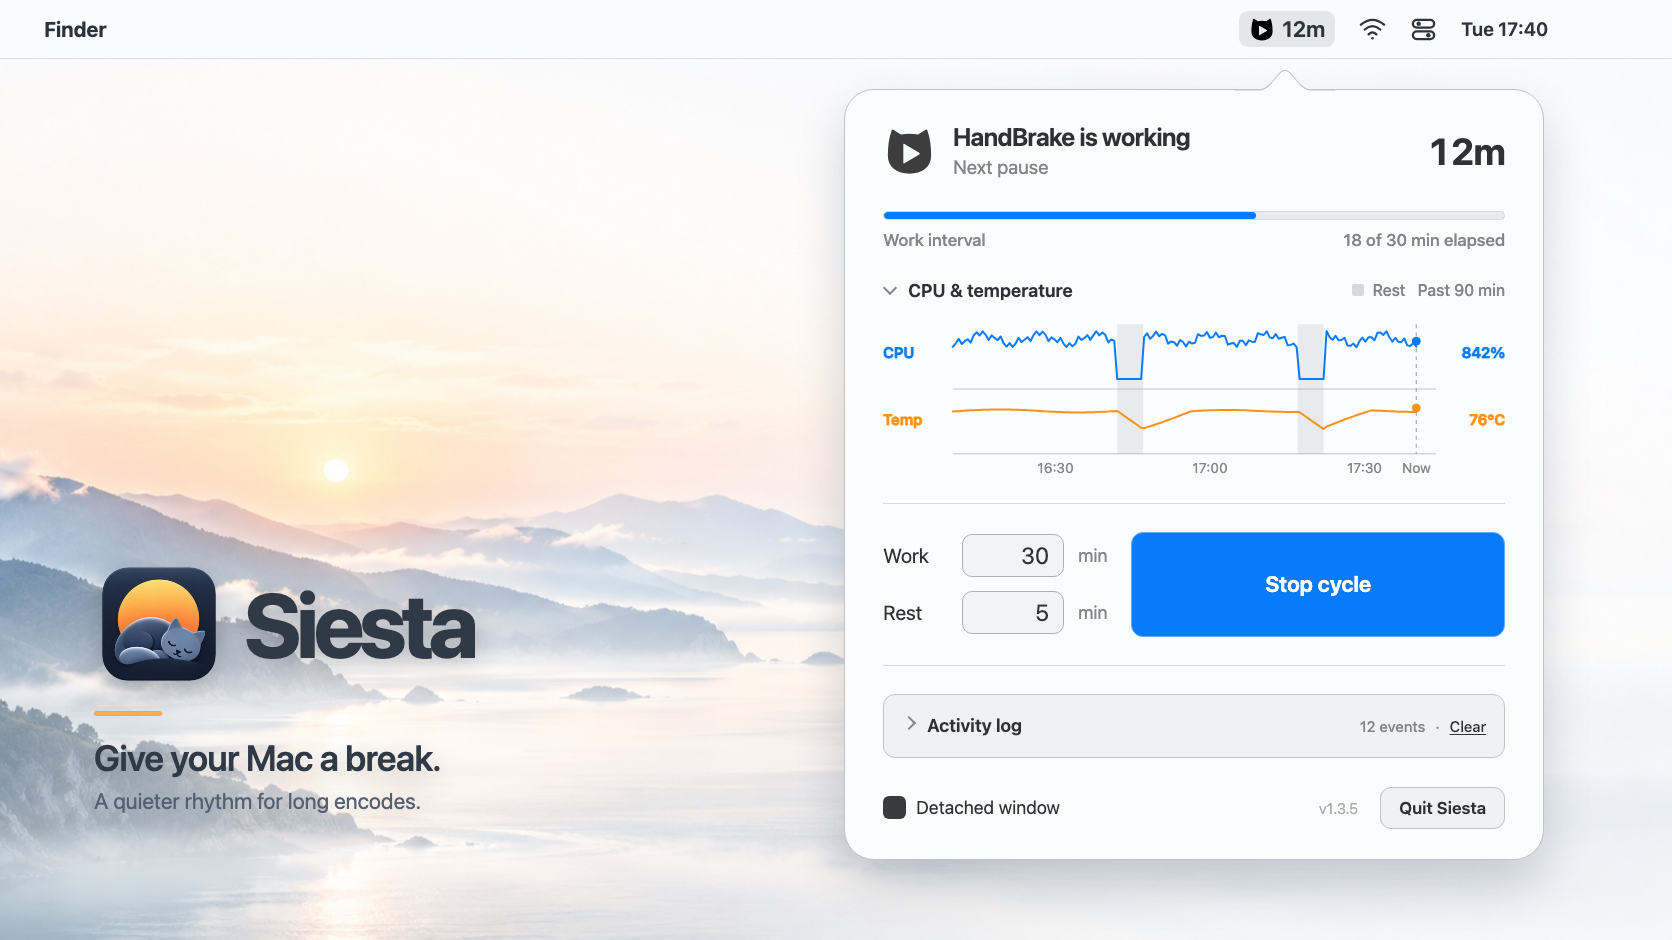
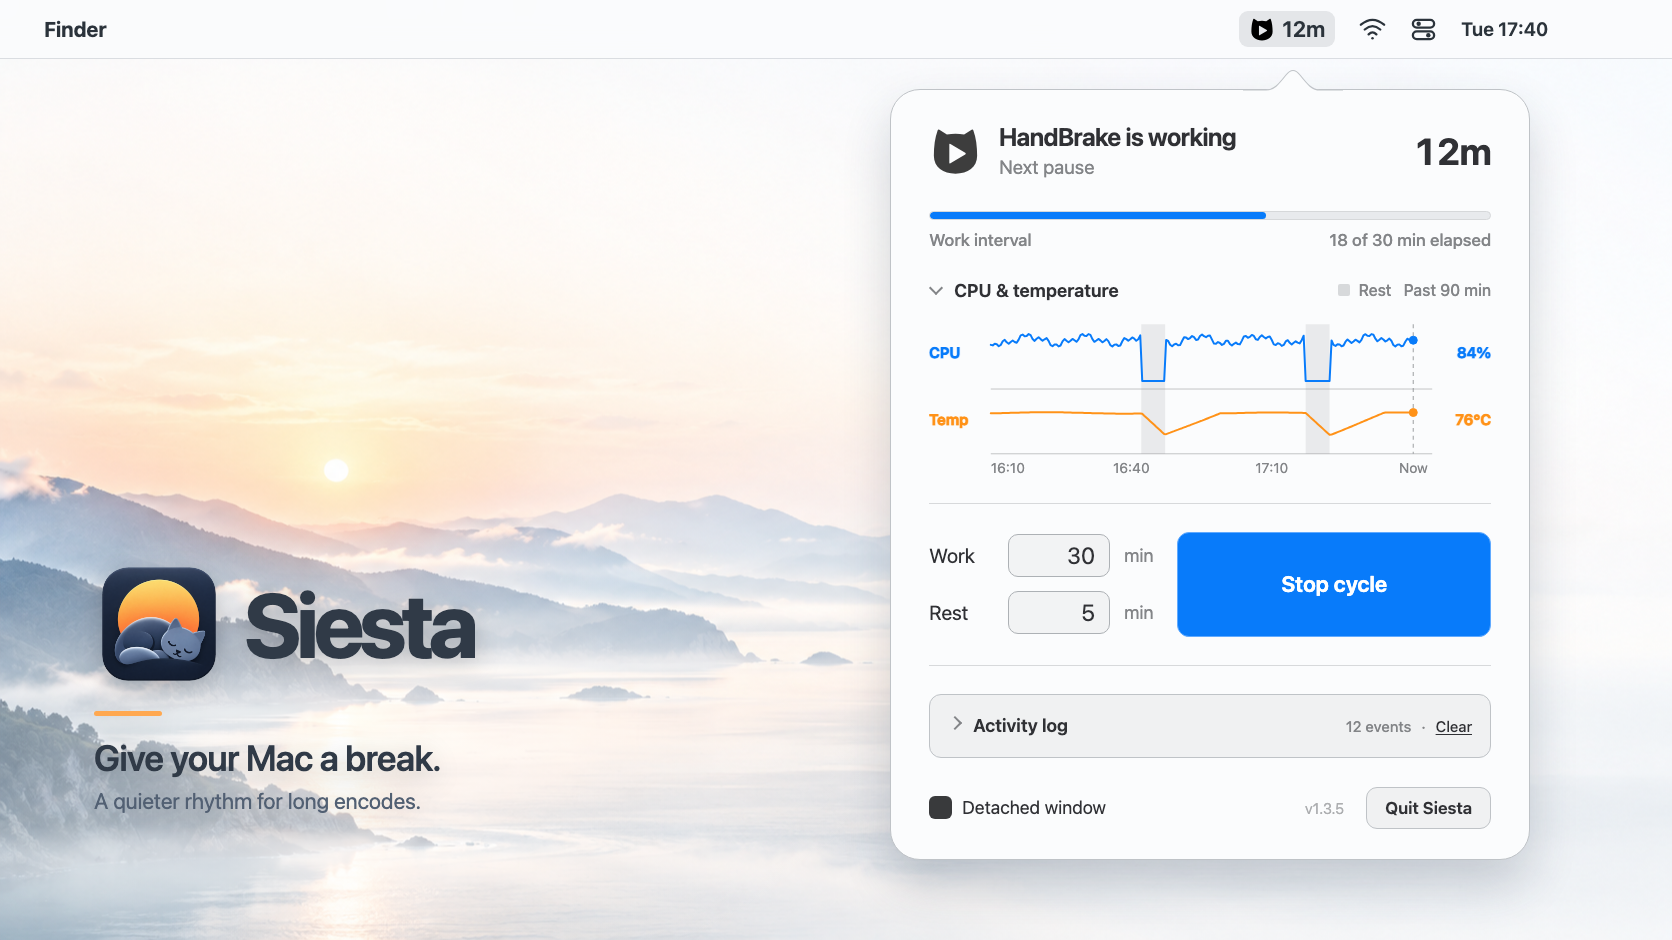
Chart: hover time centred on the cursor without seconds; lighter temperature colour in dark mode

diff --git a/Sources/main.swift b/Sources/main.swift
@@ -139,6 +139,12 @@ final class ChartView: NSView {
         return h == h.rounded() ? "Past \(Int(h)) hours" : String(format: "Past %.1f hours", h)
     }
 
+    /// Orange reads poorly on the dark panel: lift it a little there.
+    var tempColor: NSColor {
+        let dark = effectiveAppearance.bestMatch(from: [.darkAqua, .aqua]) == .darkAqua
+        return dark ? NSColor.systemOrange.blended(withFraction: 0.3, of: .white) ?? .systemOrange : .systemOrange
+    }
+
     override func draw(_ dirtyRect: NSRect) {
         if collapsed {
             // the header carries the live values while the plot is folded away
@@ -216,7 +222,7 @@ final class ChartView: NSView {
         path({ $0.cpu }, lane: cpuLane, maxV: cpuMax, minV: 0).stroke()
         let temps = visible.compactMap { $0.temp }
         let tMin = floor(((temps.min() ?? 30) - 5) / 10) * 10, tMax = ceil(((temps.max() ?? 80) + 5) / 10) * 10
-        NSColor.systemOrange.setStroke()
+        NSColortempColor.setStroke()
         path({ $0.temp }, lane: tempLane, maxV: tMax, minV: tMin).stroke()
         // now line + end dots
         let nx = x(last.t)
@@ -227,17 +233,17 @@ final class ChartView: NSView {
             color.setFill(); NSBezierPath(ovalIn: NSRect(x: nx - 3, y: min(lane.maxY, max(lane.minY, py)) - 3, width: 6, height: 6)).fill()
         }
         dot(last.cpu, lane: cpuLane, maxV: cpuMax, minV: 0, .controlAccentColor)
-        if let t = last.temp { dot(t, lane: tempLane, maxV: tMax, minV: tMin, .systemOrange) }
+        if let t = last.temp { dot(t, lane: tempLane, maxV: tMax, minV: tMin, tempColor) }
         // labels
         func text(_ s: String, _ pt: NSPoint, _ color: NSColor, _ weight: NSFont.Weight = .regular, right: Bool = false) {
             let a = NSAttributedString(string: s, attributes: [.font: NSFont.monospacedDigitSystemFont(ofSize: 11, weight: weight), .foregroundColor: color])
             let sz = a.size(); a.draw(at: NSPoint(x: right ? pt.x - sz.width : pt.x, y: pt.y - sz.height / 2))
         }
         text("CPU", NSPoint(x: 0, y: cpuLane.midY), .controlAccentColor, .semibold)
-        text("Temp", NSPoint(x: 0, y: tempLane.midY), .systemOrange, .semibold)
+        text("Temp", NSPoint(x: 0, y: tempLane.midY), tempColor, .semibold)
         let shown = hovered ?? last
         text("\(Int(shown.cpu))%", NSPoint(x: bounds.width, y: cpuLane.midY), .controlAccentColor, .semibold, right: true)
-        text(shown.temp.map { "\(Int($0.rounded()))°C" } ?? "n/a", NSPoint(x: bounds.width, y: tempLane.midY), .systemOrange, .semibold, right: true)
+        text(shown.temp.map { "\(Int($0.rounded()))°C" } ?? "n/a", NSPoint(x: bounds.width, y: tempLane.midY), tempColor, .semibold, right: true)
         // hover cursor: solid line and dots at the hovered sample
         if let hv = hovered {
             let hx = x(hv.t)
@@ -248,7 +254,7 @@ final class ChartView: NSView {
                 color.setFill(); NSBezierPath(ovalIn: NSRect(x: hx - 3, y: min(lane.maxY, max(lane.minY, py)) - 3, width: 6, height: 6)).fill()
             }
             hdot(hv.cpu, lane: cpuLane, maxV: cpuMax, minV: 0, .controlAccentColor)
-            if let t = hv.temp { hdot(t, lane: tempLane, maxV: tMax, minV: tMin, .systemOrange) }
+            if let t = hv.temp { hdot(t, lane: tempLane, maxV: tMax, minV: tMin, tempColor) }
         }
         // time axis: at most 4 labels (6 in the wider window) plus "Now"; a label never overlaps "Now"
         let maxTicks = bounds.width > 420 ? 6 : 4
@@ -263,10 +269,10 @@ final class ChartView: NSView {
             tick += step
         }
         if let hv = hovered, let hx = hx {
-            let f2 = DateFormatter(); f2.dateFormat = "HH:mm:ss"
-            let label = f2.string(from: Date(timeIntervalSinceReferenceDate: hv.t))
-            let lx = min(max(hx, plotLeft + 26), plotRight - 26)
-            text(label, NSPoint(x: lx - 26, y: 7), .labelColor, .semibold)
+            let label = f.string(from: Date(timeIntervalSinceReferenceDate: hv.t))
+            let lw = NSAttributedString(string: label, attributes: [.font: NSFont.monospacedDigitSystemFont(ofSize: 11, weight: .semibold)]).size().width
+            let lx = min(max(hx - lw / 2, 0), bounds.width - lw)   // centred on the line, kept inside the view
+            text(label, NSPoint(x: lx, y: 7), .labelColor, .semibold)
             if nx - hx > 50 { text("Now", NSPoint(x: nx + 14, y: 7), .secondaryLabelColor, .medium, right: true) }
         } else {
             text("Now", NSPoint(x: nx + 14, y: 7), .secondaryLabelColor, .medium, right: true)

diff --git a/README.md b/README.md
@@ -40,29 +40,23 @@ Clicking the menu bar icon opens a popover with the current state, countdown and
 
 ### The panel in practice
 
-Expand **CPU & temperature** to see the recent history. The shaded bands mark scheduled rests: CPU usage falls while the worker is paused, and the temperature line shows how the Mac responds. The chart starts with a five-minute view, grows with the session, and then keeps a rolling six-hour history.
+Expand **CPU & temperature** to see the recent history. The shaded bands mark scheduled rests: CPU usage falls while the worker is paused, and the temperature line shows how the Mac responds. CPU is shown as a share of the whole Mac, from 0% to 100%. The chart starts with a five-minute view, grows with the session, and then keeps a rolling six-hour history.
 
-<picture>
-  <source media="(prefers-color-scheme: dark)" srcset="Resources/siesta-expanded-dark.png">
-  <source media="(prefers-color-scheme: light)" srcset="Resources/siesta-expanded-light.png">
-  <img src="Resources/siesta-expanded-dark.png" alt="Popover with a 30-minute work interval, 12 minutes until the next rest, and expanded CPU and temperature history with shaded rest periods">
-</picture>
+<a href="Resources/siesta-interface-expanded.png">
+  <img src="Resources/siesta-interface-expanded.png" alt="Siesta popover in light and dark mode, with a 30-minute work interval, 12 minutes until the next rest, and the graph expanded to show CPU, temperature and shaded rest periods">
+</a>
 
 Collapse the chart for just the current CPU and temperature readings. This keeps the popover short while preserving the countdown and controls.
 
-<picture>
-  <source media="(prefers-color-scheme: dark)" srcset="Resources/siesta-compact-dark.png">
-  <source media="(prefers-color-scheme: light)" srcset="Resources/siesta-compact-light.png">
-  <img src="Resources/siesta-compact-dark.png" alt="Compact popover with the chart collapsed to live CPU and temperature readings">
-</picture>
+<a href="Resources/siesta-interface-compact.png">
+  <img src="Resources/siesta-interface-compact.png" alt="Compact Siesta popover in light and dark mode, with the graph collapsed to live CPU and temperature readings">
+</a>
 
 Turn on **Detached window** to keep Siesta open as a regular window. Here the chart is collapsed and **Activity log** is expanded, showing recent pauses and resumes. Uncheck Detached window to return to the menu bar popover.
 
-<picture>
-  <source media="(prefers-color-scheme: dark)" srcset="Resources/siesta-detached-dark.png">
-  <source media="(prefers-color-scheme: light)" srcset="Resources/siesta-detached-light.png">
-  <img src="Resources/siesta-detached-dark.png" alt="Detached Siesta window during a five-minute rest, with current CPU and temperature readings and the expanded activity log">
-</picture>
+<a href="Resources/siesta-interface-detached.png">
+  <img src="Resources/siesta-interface-detached.png" alt="Detached Siesta window in light and dark mode during a five-minute rest, with current CPU and temperature readings and the expanded activity log">
+</a>
 
 ### A little about the name
 
